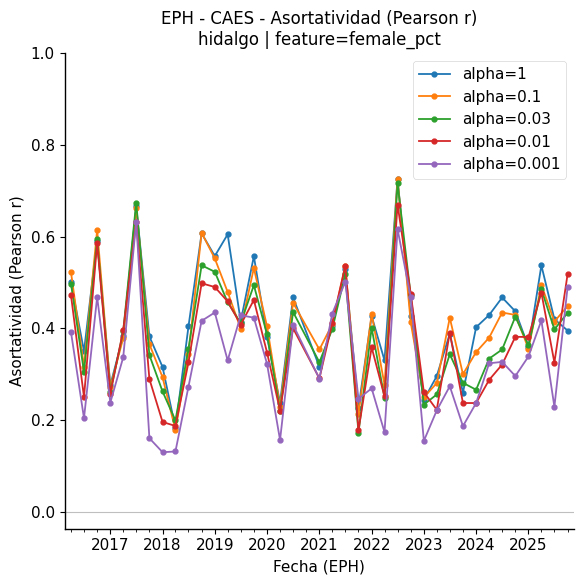
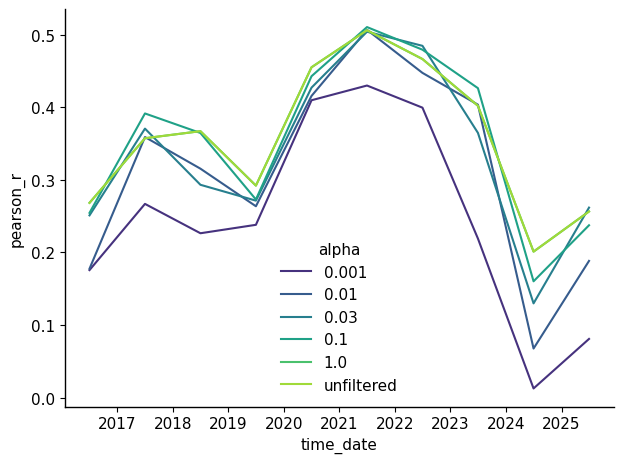
Change edge weight correlation script to filter for Q3 waves

diff --git a/scripts/10_edge_weight_correlation_eph.py b/scripts/10_edge_weight_correlation_eph.py
@@ -1,12 +1,11 @@
 from pathlib import Path
 from typing import Any
-
 from scripts import *
-import matplotlib.dates as mdates
 import matplotlib.pyplot as plt
 import networkx as nx
 import numpy as np
 import pandas as pd
+import seaborn as sns
 
 snakemake: Any
 
@@ -50,6 +49,16 @@ def main() -> None:
 		)
 
 	eph_files_sorted = utils.sort_eph_files(eph_files)
+
+	# Keep only third-quarter (Q3) waves (period == 3)
+	_filtered = []
+	for _f in eph_files_sorted:
+		_k = utils.parse_eph_file_key(_f)
+		if _k is not None and getattr(_k, "period", None) == 3:
+			_filtered.append(_f)
+	eph_files_sorted = _filtered
+	if not eph_files_sorted:
+		raise ValueError("No Q3 waves found after filtering. Check EPH filenames or adjust filter.")
 	wave_year_key: dict[str, str] = {}
 	wave_time_meta: dict[str, tuple[float, pd.Timestamp, str]] = {}
 
@@ -177,47 +186,15 @@ def main() -> None:
 	results["time_date"] = pd.to_datetime(results["time_date"], errors="coerce")
 	results = results.sort_values(["time_date", "alpha"], kind="mergesort")
 
-	# Plot
-	figsize = snakemake.config.get("figsizes", {}).get("edge_correlation", (7, 4))
-	plt.figure(figsize=figsize)
+	# Prepare a tidy summary dataframe with date, assortativity and alpha for downstream work
+	_summary_cols = ["time_date", "pearson_r", "alpha", "eph_file", "time_label", "time_numeric"]
+	_summary_df = results.loc[:, [c for c in _summary_cols if c in results.columns]].copy()
+	_summary_df = _summary_df.sort_values(["time_date", "alpha"], kind="mergesort")
 
-	def _alpha_label(a_val) -> str:
-		if isinstance(a_val, str):
-			return a_val
-		return f"alpha={a_val:g}"
+	print("Example of results dataframe:")
+	print(_summary_df.head())
 
-	for a_val in alphas:
-		df_a = results[results["alpha"].astype(str) == str(a_val)].copy()
-		if df_a.empty:
-			continue
-		x = pd.to_datetime(df_a["time_date"]).to_numpy()
-		y = df_a["pearson_r"].to_numpy(dtype=float)
-		plt.plot(
-			x, y, marker="o", linewidth=1.3, markersize=3.5, label=_alpha_label(a_val)
-		)
-
-	ax = plt.gca()
-	plt.axhline(0.0, color="black", linewidth=0.8, alpha=0.25)
-	plt.ylim(bottom=min(0, plt.ylim()[0]), top=1.0)
-
-	# Continuous calendar axis with regular date ticks (not only observed EPH points).
-	t_min = pd.to_datetime(min(x_dates)) - pd.Timedelta(days=45)
-	t_max = pd.to_datetime(max(x_dates)) + pd.Timedelta(days=45)
-	xmin = float(mdates.date2num(t_min.to_pydatetime()))
-	xmax = float(mdates.date2num(t_max.to_pydatetime()))
-	ax.set_xlim(xmin, xmax)
-	major_locator = mdates.AutoDateLocator(minticks=6, maxticks=12)
-	ax.xaxis.set_major_locator(major_locator)
-	ax.xaxis.set_major_formatter(mdates.ConciseDateFormatter(major_locator))
-	ax.xaxis.set_minor_locator(mdates.MonthLocator(bymonth=[1, 4, 7, 10]))
-	plt.setp(ax.get_xticklabels(), rotation=0, ha="center")
-
-	title = f"EPH - {class_.upper()} - Asortatividad (Pearson r)\n{weight_function} | feature={feature}"
-	plt.title(title)
-	plt.xlabel("Fecha (EPH)")
-	plt.ylabel("Asortatividad (Pearson r)")
-	plt.legend(loc="best", frameon=True)
-	plt.tight_layout()
+	sns.lineplot(data=_summary_df, x="time_date", y="pearson_r", hue="alpha", palette="viridis")
 
 	out_path = Path(snakemake.output[0])
 	plt.savefig(out_path, bbox_inches="tight")
@@ -287,21 +264,6 @@ def main() -> None:
 				items.append(f"{k}={gm[k]}")
 		log_lines.append(
 			f"  - {eph_file}: " + (", ".join(items) if items else "(no metrics)")
-		)
-
-	log_lines.append("")
-	log_lines.append("PER-ALPHA SUMMARY (across time):")
-	for a_val in alphas:
-		df_a = results[results["alpha"].astype(str) == str(a_val)].copy()
-		if df_a.empty:
-			continue
-		r_vals = pd.to_numeric(df_a["pearson_r"], errors="coerce")
-		r_vals = r_vals[np.isfinite(r_vals)]
-		if len(r_vals) == 0:
-			log_lines.append(f"  - {_alpha_label(a_val)}: no finite r values")
-			continue
-		log_lines.append(
-			f"  - {_alpha_label(a_val)}: mean={r_vals.mean():.4f}, std={r_vals.std():.4f}, min={r_vals.min():.4f}, max={r_vals.max():.4f}"
 		)
 
 	log_path = None
